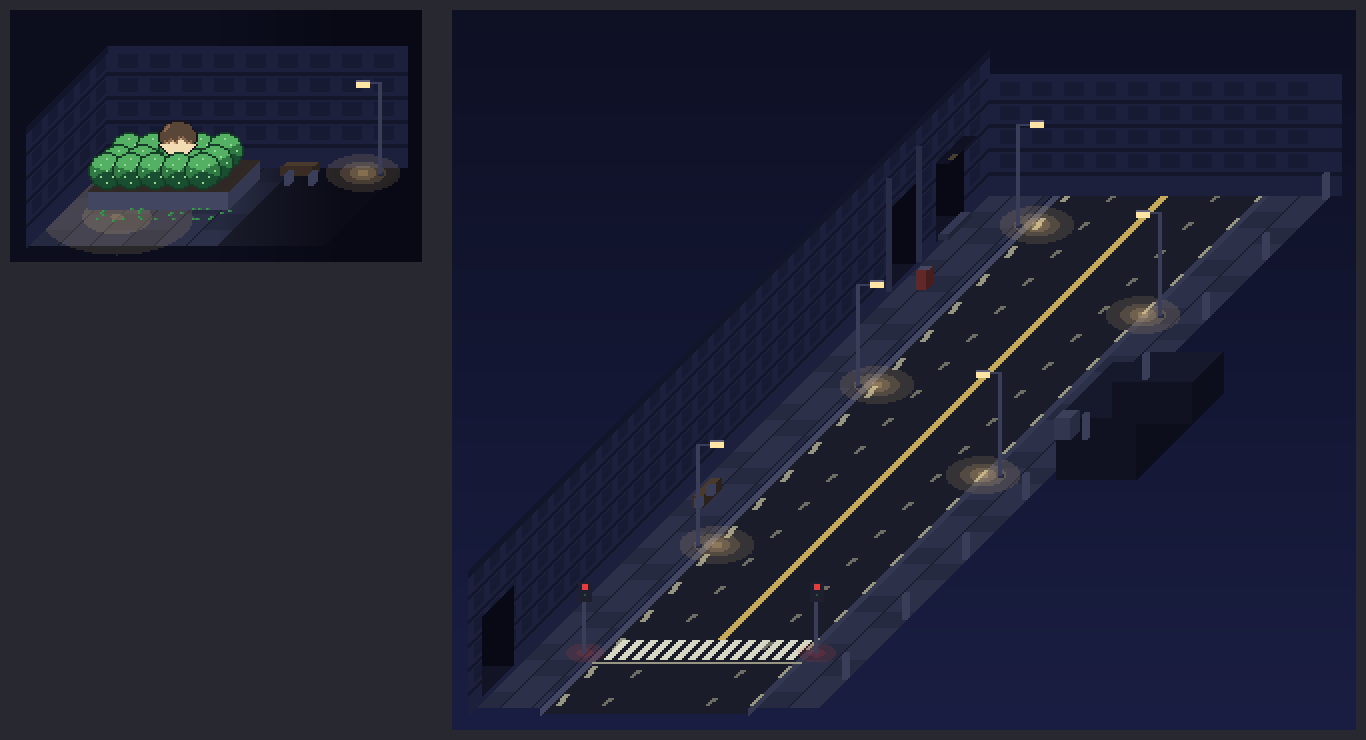
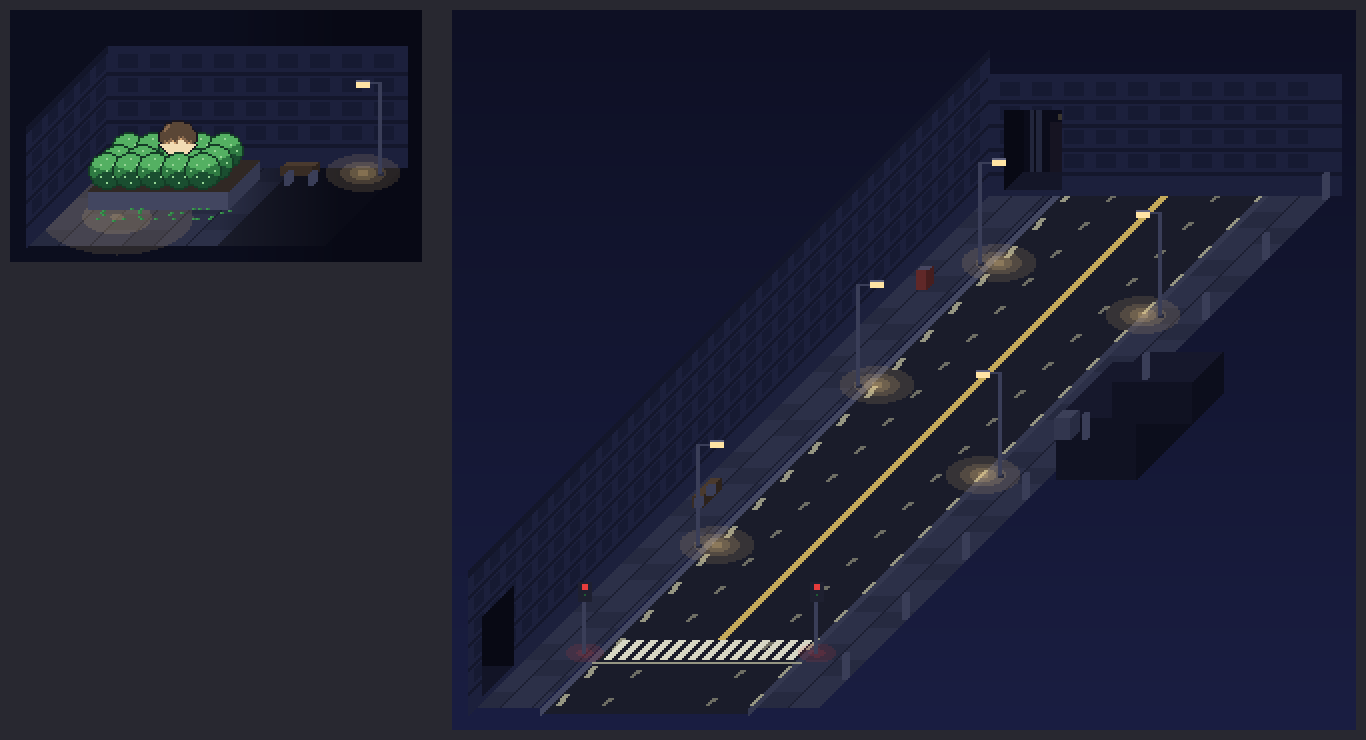
City 3D: top-end alley on back wall left end; left-wall top alleys removed
Claude-Session: https://claude.ai/code/session_01FPZSaKiVNU2zED737yZX4w

Changed region(s): [[0.6457, 0.1243, 0.7994, 0.4041]]

diff --git a/tools/render_city3d.py b/tools/render_city3d.py
@@ -129,6 +129,20 @@ def alley_right(s, d0, d1, x0=176, ln=36):
     s.box(x0 - 6, d0 + 3, 5, 5, 8, (40, 44, 68), (30, 34, 54), (24, 28, 44), z0=3)    # 입구 곁 쓰레기통
     s.box(x0 - 6, d1 - 9, 5, 5, 10, (46, 50, 76), (34, 38, 60), (26, 30, 48), z0=3)
 
+def alley_back(s, x0, x1, h=42, z=3, depth=18):
+    """거리 맨 위 끝 벽(정면을 향한 면)의 왼쪽 끝에 뚫린 어두운 골목. 정면이라 안쪽(바닥·먼 벽·배관·문)이 보인다."""
+    D = s.D; mask = Image.new('L', s.img.size, 0)
+    ImageDraw.Draw(mask).polygon([s.P(x0, D, z), s.P(x1, D, z), s.P(x1, D, h), s.P(x0, D, h)], fill=255)
+    lay = s.img.copy(); ld = ImageDraw.Draw(lay)
+    def poly(pts, col): ld.polygon([s.P(*q) for q in pts], fill=col)
+    poly([(x0, D, z), (x1, D, z), (x1, D + depth, z), (x0, D + depth, z)], (20, 22, 40))                 # 바닥
+    poly([(x0, D + depth, z), (x1, D + depth, z), (x1, D + depth, h), (x0, D + depth, h)], (11, 12, 26))  # 먼 벽
+    poly([(x0, D, z), (x0, D + depth, z), (x0, D + depth, h), (x0, D, h)], (8, 9, 20))                  # 왼쪽 안벽
+    for xx in (x0 + 4, x0 + 7): poly([(xx, D + depth, z), (xx + 1.5, D + depth, z), (xx + 1.5, D + depth, h), (xx, D + depth, h)], (34, 38, 60))   # 배관
+    poly([(x0 + 14, D + depth, z), (x0 + 23, D + depth, z), (x0 + 23, D + depth, z + 24), (x0 + 14, D + depth, z + 24)], (22, 20, 34))           # 막다른 문
+    poly([(x0 + 18, D + depth, z + 26), (x0 + 20, D + depth, z + 26), (x0 + 20, D + depth, z + 28), (x0 + 18, D + depth, z + 28)], (58, 54, 46))  # 꺼진 전구
+    s.img.paste(lay, (0, 0), mask); s.px = s.img.load(); s.d = ImageDraw.Draw(s.img)
+
 # ---------------- 장면 1: 광장 ----------------
 def landing():
     W, D = 150, 80; s = Scene(W, D, 70); rng = random.Random(5)
@@ -189,9 +203,9 @@ def street():
         s.jobs.append((56, sig)); s.glow(x, 56, 18, col=(230, 60, 60), power=.35, z=3)
     s.wall_left(0, D, 72, seed=4); s.wall_back(0, W, D, 60, seed=6)
     # 왼쪽 건물 벽에 골목 입구: 광장으로 이어지는 통로(아래) + 골목 3개. 모두 어둡다.
-    alley(s, 14, 44, 'link', depth=34); alley(s, 420, 446, 'pipes'); alley(s, 468, 494, 'door')
+    alley(s, 14, 44, 'link', depth=34); alley_back(s, 8, 36)
     s.box(176, 236, 40, 56, 30, (22, 24, 44), (16, 18, 34), (12, 14, 28)); s.box(176, 292, 40, 30, 20, (22, 24, 44), (16, 18, 34), (12, 14, 28))   # 오른쪽: 골목 대신 막힌 구조물
-    for x, d, side in [(30, 170, 1), (146, 240, -1), (30, 330, 1), (146, 400, -1), (30, 490, 1)]: s.lamp(x, d, 50, side)
+    for x, d, side in [(30, 170, 1), (146, 240, -1), (30, 330, 1), (146, 400, -1), (30, 452, 1)]: s.lamp(x, d, 50, side)
     s.box(12, 200, 5, 18, 5, (74, 58, 46), (56, 44, 36), (44, 34, 28), z0=4); s.box(12, 202, 3, 2, 4, POLE, POLE, POLE, z0=3); s.box(12, 214, 3, 2, 4, POLE, POLE, POLE, z0=3)
     s.box(158, 270, 8, 8, 10, (60, 64, 88), (50, 54, 78), (40, 44, 66), z0=3)
     s.box(14, 420, 5, 5, 9, (70, 70, 96), (96, 40, 40), (70, 30, 30), z0=3)
